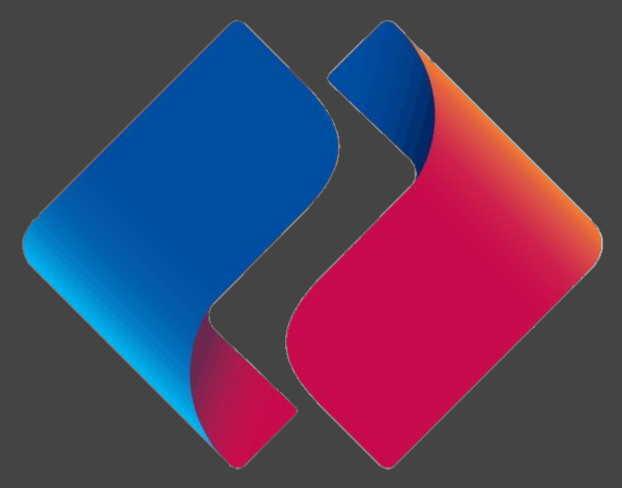
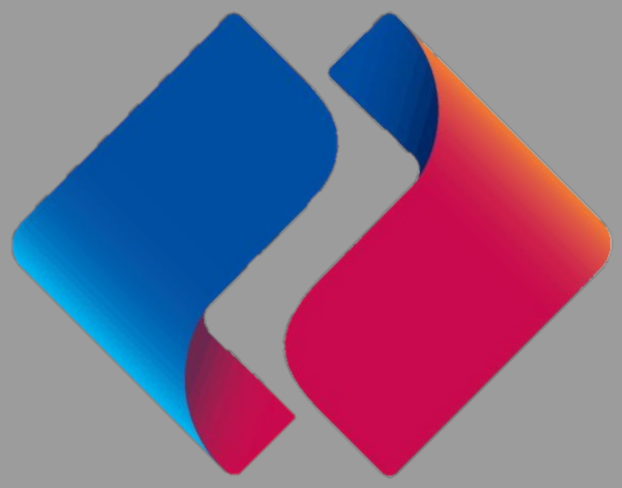
update

diff --git a/views/topic/show.html b/views/topic/show.html
@@ -227,7 +227,7 @@
 		<div class="col-md-9">
 			<article class="markdown-body">
 				<div id="" style="position: relative; top: 20px; left: 5px;">
-					<img src="{{topic.publisher_avatar}}" style="width: 100px; height: 100px; border-radius: 3px;">
+					<img src="{{topic.publisher_avatar}}" style="height: 100px;  border-radius: 3px;">
 					<div id="" style="position: absolute; left: 120px; top: -3px;">
 						<a name="user-content-_2" href="#_2" class="headeranchor-link" aria-hidden="true">
 							作者：{{topic.publisher}}
@@ -281,7 +281,7 @@
 				<div class="form-group">
 					<label for="">评论:</label>
 
-					<!-- <textarea class="mytextarea" required name="comment_content" placeholder="来说几句吧......" cols="10"
+				<!-- 	<textarea class="mytextarea" required id="message" name="comment_content" placeholder="来说几句吧......" cols="10"
 							rows="10"></textarea> -->
 					<div class="message" id="message" contentEditable='true'>
 						<span class="messageS">来说几句吧......</span>
@@ -292,8 +292,8 @@
 					<span class='bq'></span>
 					<!-- <img src="/public/images/bba_thumb.gif" class='bq' /> -->
 					<!-- <span class='submit'>发表</span> -->
-					<div class="face">
-						<ul id="face">
+					<div class="face" style="width: 420px;">
+						<!-- <ul id="face">
 							<li><img src="/public/images/smilea_thumb.gif" title="呵呵]"></li>
 							<li><img src="/public/images/tootha_thumb.gif" title="嘻嘻]"></li>
 							<li><img src="/public/images/laugh.gif" title="[哈哈]"></li>
@@ -337,6 +337,21 @@
 							<li><img src="/public/images/dizzya_thumb.gif" title="[晕]"></li>
 							<li><img src="/public/images/bs_thumb.gif" title="[悲伤]"></li>
 						</ul>
+						 -->
+						
+						<ul id="face" style="margin-left: 5px; margin-right: 15px; padding-right: 0; ">
+							<!-- <li><img src="/public/imgs/1.gif" title="呵呵]"></li>
+							<li><img src="/public/imgs/2.gif" title="呵呵]"></li>
+							<li><img src="/public/imgs/3.gif" title="呵呵]"></li>
+							<li><img src="/public/imgs/4.gif" title="呵呵]"></li>
+							<li><img src="/public/imgs/5.gif" title="呵呵]"></li>
+							<li><img src="/public/imgs/6.gif" title="呵呵]"></li>
+							<li><img src="/public/imgs/7.gif" title="呵呵]"></li>
+							<li><img src="/public/imgs/8.gif" title="呵呵]"></li>
+							<li><img src="/public/imgs/9.gif" title="呵呵]"></li>
+							<li><img src="/public/imgs/10.gif" title="呵呵]"></li> -->
+						</ul>
+					
 					</div>
 				</div>
 
@@ -394,6 +409,8 @@
 <script src="/node_modules/jquery/dist/jquery.js"></script>
 <script src="/node_modules/moment/moment.js"></script>
 <script type="text/javascript">
+	
+
 	$('#getfan').click(function(e) {
 		// console.log('点击了关注')
 		$.ajax({
@@ -450,7 +467,11 @@
 		// console.log(nowDate)
 		var formData = $(this).serialize()
 		// console.log(formData)
+		
+		
 		formData += '&comment_content=' + $('.message').html()
+		
+		
 		// console.log($('.message').html())
 
 		$.ajax({
@@ -521,6 +542,7 @@
 	// 	})
 	// })
 	$(".bq").click(function(e) {
+	
 		$(".face").slideDown(); //慢慢向下展开
 		e.stopPropagation(); //阻止冒泡事件
 	});
@@ -542,6 +564,15 @@
 			$(".face").slideUp(); //慢慢向上收
 		}
 	});
+	click1()
+	function click1(){
+		$('#face').html('')
+		let str = ''
+		for(let i = 1; i<= 91; i++){
+			str += '<li><img src="/public/imgs/'+i+'.gif" title="呵呵]"></li>'
+		}
+		$('#face').append(str)
+	}
 	//点击小图标时，添加功能
 	$(".face ul li").click(function() {
 
@@ -550,6 +581,7 @@
 		let simg = $(this).find("img").clone();
 		// console.log(simg)
 		$(".message").append(simg); //将表情添加到输入框
+		
 
 	});
 	findComment()
@@ -578,7 +610,7 @@
 							id="5fdb4a8a0f99cbc8325e341e">
 							<div class="author_content">
 								<a href="/user/hyj1991" class="user_avatar">
-									<img src="${item.comment_avatar}" title="hyj1991" alt="图片丢失"></a>
+									<img src="${item.comment_avatar}"  style="height: 45px; width:auto;" title="hyj1991" alt="图片丢失"></a>
 								<div class="user_info">
 									<a class="dark reply_author" href="/user/hyj1991">${item.comment_nickname}</a>
 									<a class="reply_time" href="#">${item.comment_time}</a>

diff --git a/views/index.html b/views/index.html
@@ -13,7 +13,7 @@
 
 <div class="container">
 
-	<div class="panel">
+	<div class="panel"  style=" height: 760px;">
 		<div class="header">
 
 			<a href="/" class="topic-tab {{all}}">全部</a>
@@ -23,11 +23,12 @@
 			<a href="/dev" class="topic-tab {{dev}}">客户端测试</a>
 			<a href="/removedata" type="button" class="btn btn-default">删除所有发表数据</a>
 		</div>
-		<div class="cell" style="height: 500px;">
+	<div id=""  class="cell" style="height: 660px; ">
+		<div class="cell" >
 		{{each topic}}
 		<div class="cell" >
 			<a class="user_avatar pull-left" href="#">
-				<img src="{{$value.publisher_avatar}}" title="thonatos">
+				<img src="{{$value.publisher_avatar}}"  style="height: 35px; width: auto;" title="thonatos">
 			</a>
 			<span class="" style="margin: 0 20px ;">
 				<span>{{$value.publisher}}</span>
@@ -42,19 +43,23 @@
 			</span>
 		{{if $value.comment_avatar}}
 		<a class="last_time pull-right" href="#">
-			<img class="user_small_avatar" src="{{$value.comment_avatar}}">
+			<img class="user_small_avatar" style="height: 20px; width: auto;" src="{{$value.comment_avatar}}">
 			<span class="last_active_time">{{$value.commentTime}}</span>
 		</a>
 		{{else}}
-		<a class="last_time pull-right" href="/topic/show?p_id={{$value.publisher_id}}">
+		<a class="last_time pull-right" href="/topic/show?p_id={{$value.publisher_id}}&topic_id={{$value._id}}">
 			<span class="last_active_time">还没有评论咯，赶紧去评论吧</span>
 		</a>
 			{{/if}}
 		</div>
 		{{/each}}
 		</div>
-		<nav aria-label="Page navigation">
-			<ul class="pagination">
+	</div>
+		
+		
+		
+		<nav aria-label="Page navigation" style="margin-top: 0px;">
+			<ul class="pagination"  style="margin-left: 50%;transform:  translateX(-50%);">
 				<li>
 					<a href="#" aria-label="Previous">
 						<span aria-hidden="true">&laquo;</span>
@@ -91,6 +96,9 @@
 		// 		console.log(data)
 		// 	}
 		// })
+	})
+	$('#p').blur(()=>{
+		console.log($)
 	})
 </script>
 {{/block}}

diff --git a/views/_partials/header.html b/views/_partials/header.html
@@ -1,20 +1,20 @@
 <!-- <nav class="navbar " style="background-color: #ffffff;"> -->
 <!-- 	<div class="navbar-header">
 	</div> -->
-<div class="navbar">
+<div class="navbar" style="background-color: #9c9c9c;">
 	<div class="navbar-inner">
-		<div class="container">
+		<div class="container" >
 			<a class="brand" href="/">
 				<!-- <img src="/public/img/logo1.png"> -->
-				<img src="/public/img/Lindex.png"  alt="" style=" height: 53px; margin-top: -10px;" >
+				<img src="/public/img/Lindex.png"  alt="" style=" height: 52px; margin-top: -10px;" >
 				<!-- <span class="glyphicon glyphicon-apple" style="color: white;font-size: 50px; margin-top: -10px;">-->
 				</span><!-- 用于测试boostrap字体图标 --> 
 			</a>
-			<form id="search_form" class="navbar-search" action="/search">
-				<input type="text" id="q" name="q" class="search-query span3" value="">
+			<form id="search_form" class="navbar-search" method="post" action="/search">
+				<input type="text" id="q" name="q" class="search-query span3" style="background-color: #FFFAE8;margin-top: 5px;" value="">
 			</form>
 			
-			<ul class="nav pull-right">
+			<ul class="nav pull-right" >
 				{{if user}}
 				<a class="btn btn-default navbar-btn" href="/topic/new">发起</a>
 				<li class="dropdown">
@@ -36,9 +36,9 @@
 				</li>
 	
 				{{else}}
-					<li><a href="/">首页</a></li>
-					<li><a href="/register">注册</a></li>
-					<li><a href="/login">登录</a></li>
+					<li><a href="/" style="color: #FFFFFF; opacity: 1;">首页</a></li>
+					<li><a href="/register" style="color: #FFFFFF; opacity: 1;">注册</a></li>
+					<li><a href="/login" style="color: #FFFFFF; opacity: 1;">登录</a></li>
 				{{/if}}
 			</ul>
 			

diff --git a/routes/topic.js b/routes/topic.js
@@ -30,6 +30,7 @@ router.post('/topic/new', (req, res) => {
 })
 
 router.get('/topic/show', (req, res) => {
+	
 	req.query.topic_id = req.query.topic_id.replace(/"/g, '')
 	// console.log(req.query.publisher_id)
 	Topic.findOne({
@@ -132,21 +133,21 @@ router.post('/comment', (req, res) => {
 
 router.post('/findcomment', (req, res) => {
 	// console.log(req.body.topicId.trim())
-	
+
 	Comment.find({
-		topic_id:req.body.topicId.trim()
-	},(err, comment) => {
+		topic_id: req.body.topicId.trim()
+	}, (err, comment) => {
 		if (err) {
 			// console.log(err)
 			return res.status(500).json({
 				err_code: 500,
 				message: '查询评论服务器错误'
 			})
-		} 
+		}
 		// console.log(comment)
 		return res.status(200).json({
 			err_code: 1,
-			message:'查询评论成功',
+			message: '查询评论成功',
 			data: comment
 		})
 	})
@@ -352,4 +353,30 @@ router.post('/show/dislike', (req, res) => {
 	})
 })
 
+router.post('/search', (req, res) => {
+	// console.log(req.body)
+	Topic.find({
+		title: req.body.q
+	}, (err, topic) => {
+		if (err) {
+			console.log(err)
+			return res.status(500).json({
+				err_code: 500,
+				message: '标题搜索失败'
+			})
+		}
+		if (topic.length === 0) {
+			return res.status(200).json({
+				err_code: 0,
+				message: '没有该文章哦'
+			})
+		} 
+		return res.render('index.html', {
+			user: req.session.user,
+			topic: topic
+			// share: 'current-tab'
+		})
+
+	})
+})
 module.exports = router

diff --git a/README.md b/README.md
@@ -19,4 +19,5 @@
 | GET  | /topic/new               | ----                  | ----                                     | 渲染添加话题页面                 |
 | GET  | /logout                  | ----                  | ----                                     | 退出登录                     |
 | GET  | /topic/show              | publisher_id，topic_id | ----                                     | 根据发布者id和话题id查询topic数据并显示 |
-| POST | /comment                 | ----                  | comment_nickname，comment_id，comment_content，comment_avatar，comment_time，topic_id，comment_time | 提交评论信息                   |
+| POST | /comment  
+
